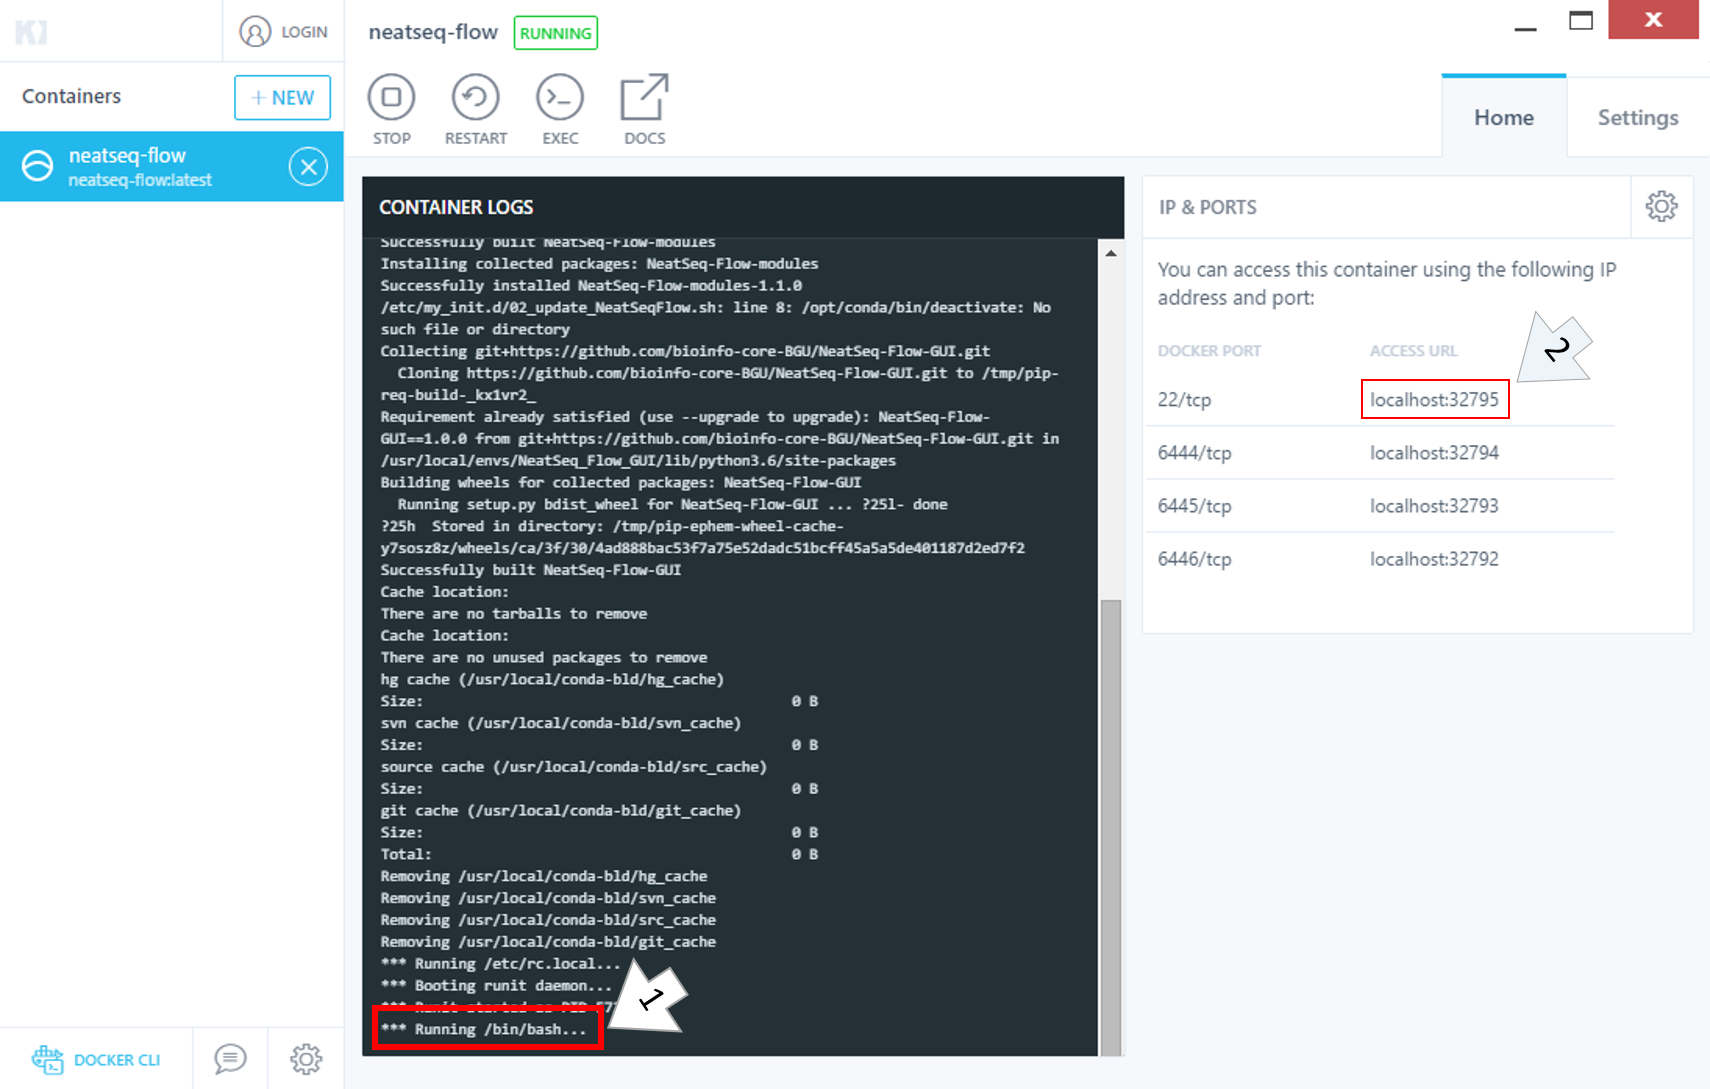
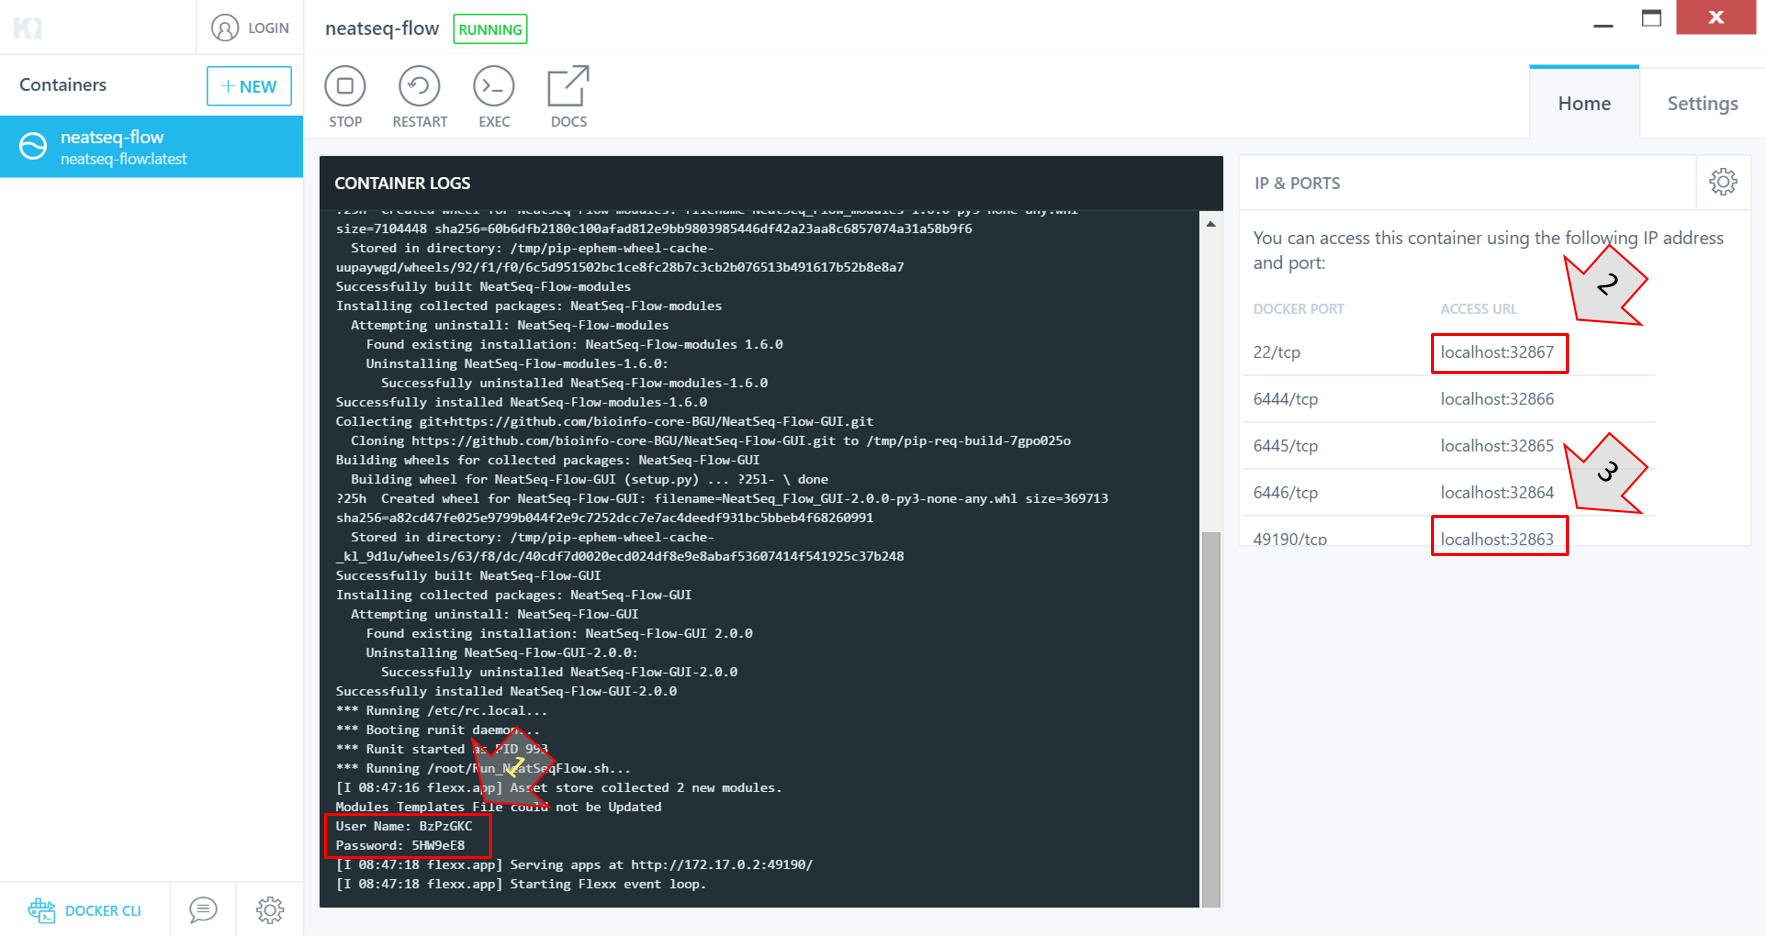
Upaded Docs

diff --git a/README.md b/README.md
@@ -27,35 +27,33 @@ NeatSeq-Flow-Using-Docker
 ## Install on Windows
   **[Read more on Docker for Windows](https://docs.docker.com/docker-for-windows/install/)**
   ### For Windows 10
-  
+
   You Will Need (Download and Install):
-    
-  - [Docker for Windows](https://hub.docker.com/editions/community/docker-ce-desktop-windows). 
+
+  - [Docker for Windows](https://hub.docker.com/editions/community/docker-ce-desktop-windows).
   - [Docker Toolbox](https://docs.docker.com/toolbox/toolbox_install_windows/).
   - [MobaXterm](https://mobaxterm.mobatek.net/download.html)
 
   ### For Older Versions of Windows
-  
+
   You Will Need (Download and Install):
-    
+
   - [Docker Toolbox](https://docs.docker.com/toolbox/toolbox_install_windows/).
   - [MobaXterm](https://mobaxterm.mobatek.net/download.html)
-      
-  ### Get and Run The NeatSeq-Flow Docker Container 
-  
+
+  ### Get and Run The NeatSeq-Flow Docker Container
+
 <img align="left" src="https://raw.githubusercontent.com/bioinfo-core-BGU/NeatSeq-Flow-Using-Docker/master/doc/Kitematic.png" width="50">
-     
+
 Click on the Kitematic Icon
 
 
 ***
-  
+
 <img align="right" src="https://raw.githubusercontent.com/bioinfo-core-BGU/NeatSeq-Flow-Using-Docker/master/doc/Get_Container.png" width="550">
 
   1. In the search bar type 'NeatSeq'
   2. Click on the "CREATE" button.
-  
-&nbsp;
 
 &nbsp;
 
@@ -71,7 +69,9 @@ Click on the Kitematic Icon
 
 &nbsp;
 
-**Note: It Will Take Some Time to Download!!!** 
+&nbsp;
+
+**Note: It Will Take Some Time to Download!!!**
 
 
 <img align="right" src="https://raw.githubusercontent.com/bioinfo-core-BGU/NeatSeq-Flow-Using-Docker/master/doc/Download_Container.png" width="550">
@@ -103,9 +103,10 @@ Click on the Kitematic Icon
 <img align="right" src="https://raw.githubusercontent.com/bioinfo-core-BGU/NeatSeq-Flow-Using-Docker/master/doc/Container_Running.png" width="550">
 
 
-  1. If in the 'CONTAINER LOGS' the line "*** Running /bin/bash" appears, the container is up and running.
-  2. This information [computer_name_or_IP **:** port_number] will be used in the next step.
-  
+  1. If in the 'CONTAINER LOGS' the lines "User Name:" and "Password:" appears, the container has finished to load.
+  2. This information [computer_name_or_IP **:** port_number] will be used in the next step to connect to the container using SSH.
+  3. This information [computer_name_or_IP **:** port_number] will be used in the next step to connect to the NeatSeq-Flow GUI using a web browser.
+
 &nbsp;
 
 &nbsp;
@@ -125,24 +126,26 @@ Click on the Kitematic Icon
 ***
 
   <img align="left" src="https://raw.githubusercontent.com/bioinfo-core-BGU/NeatSeq-Flow-Using-Docker/master/doc/MobaXterm.png" width="50">
-     
+
 Click on the MobaXterm Icon
 
 
 ***
+### Connect to the Docker container using SSH
 
 <img align="right" src="https://raw.githubusercontent.com/bioinfo-core-BGU/NeatSeq-Flow-Using-Docker/master/doc/MobaXterm_Setup.png" width="550">
 
 
   1. Click on the "Session" button.
   2. Click on the "SSH" button.  
-     - Edit the "Remote host" tab to the "computer_name_or_IP" found in the "Kitematic" window.
+     - Edit the "Remote host" tab to the "computer_name_or_IP" found in the "Kitematic" window next to the "22/tcp" DOCKER PORT.
      - Click on the "Specify username" check box.
      - Edit the "Specify username" tab to "sgeadmin".
-     - Edit the "Port" tab to the "port_number" found in the "Kitematic" window.
+     - Edit the "Port" tab to the "port_number" found in the "Kitematic" window next to the "22/tcp" DOCKER PORT.
   3. Click on the "OK" button.
   4. Enter the password "sgeadmin", **Note That You Will Not See a Typing Feedback**
-  
+  5. It is now possible to transfer files to and from the container to be used by NeatSeq-Flow.
+
 &nbsp;
 
 &nbsp;
@@ -153,13 +156,21 @@ Click on the MobaXterm Icon
 **Note: For 'root' user the password is 'root'**
 
 ***
+### Connect to the NeatSeq-Flow GUI using a web browser
+
+<img align="right" src="https://raw.githubusercontent.com/bioinfo-core-BGU/NeatSeq-Flow-Using-Docker/master/doc/NeatSeq_Flow_login.png" width="550">
+
+1. Open a web browser and copy the computer_name_or_IP **:** port_number information found in the "Kitematic" window next to the "49190/tcp" DOCKER PORT.
+2. In the Login page fill in the 'User Name' and 'Password' fields according to the information found at the 'CONTAINER LOGS' in the "Kitematic" window.  
+
+**IMPORTANT: The "port_number", "User Name" and "Password" Changes Every Time You Restart The Container**
 
 ## Install on Mac
 
   You Will Need (Download and Install):
-  - [Docker for Mac](https://hub.docker.com/editions/community/docker-ce-desktop-mac). 
+  - [Docker for Mac](https://hub.docker.com/editions/community/docker-ce-desktop-mac).
   - [Docker Toolbox](https://docs.docker.com/toolbox/overview/)
-  
+
   **[Read more on Docker for Mac](https://docs.docker.com/docker-for-mac/install/)**
 
 **IMPORTANT!!! Getting the NeatSeq-Flow Container on Mac Is Similar To [Windows](#get-and-run-the-neatseq-flow-docker-container), However it was NOT Tested Yet!!!**
@@ -168,15 +179,8 @@ Click on the MobaXterm Icon
 
 ## Running a Test Work-Flow
 
-<img align="right" src="https://raw.githubusercontent.com/bioinfo-core-BGU/NeatSeq-Flow-Using-Docker/master/doc/Commandline.png" width="450">
-
-
 ### In the Terminal Connected to The Container as 'sgeadmin', Type:
 
-
-&nbsp;
-
-&nbsp;
 
 &nbsp;
 
@@ -189,80 +193,78 @@ Click on the MobaXterm Icon
         ```
             wget https://raw.githubusercontent.com/bioinfo-core-BGU/NeatSeq-Flow-Using-Docker/master/doc/Tutorial_Parameter_file.yaml
         ```
-        
+
   3. Download the **Tutorial Work-Flow Sample file**
         ```
            wget https://raw.githubusercontent.com/bioinfo-core-BGU/neatseq-flow-tutorial/master/Samples_conda.nsfs
         ```
-        
-  4. Run **NeatSeq-Flow GUI**:
-        ``` 
-          NeatSeq_Flow_GUI.py
-        ```
-  5.Load a Work-Flow Parameter File
-   
+
+  4. Login to the [NeatSeq-Flow GUI](#connect-to-the-neatseq-flow-gui-using-a-web-browser)
+
+  5. Load a Work-Flow Parameter File
+
    <img src="https://raw.githubusercontent.com/bioinfo-core-BGU/NeatSeq-Flow-Using-Docker/master/doc/Load_WorkFlow_parameter_file.gif" width="650">
-      
+
    - In the 'Work-Flow' Tab click on the 'Load WorkFlow' button, then choose the work-flow's parameter file 'Tutorial_Parameter_file.yaml' and click open.
   6. Run the Work-Flow
    <img src="https://raw.githubusercontent.com/bioinfo-core-BGU/NeatSeq-Flow-Using-Docker/master/doc/Generate_scripts.gif" width="650">
-   
-   
+
+
    **In the 'Run' Tab:**
-   
+
   1. Choose the conda environment of which NeatSeq-Flow installed in:
     - Click on the "Search" button next to the "Conda environment to use" field and wait until at least 2 conda environments are found. If an error occurs try again.
     - Select from the "Conda environment to use" drop-down menu the "NeatSeq_Flow Tutorial" environment.
-   
-   
+
+
    2. Generate the Work-Flow scripts:
-      
+
       - Select the Work-Flow parameter-file.
       - Select the Sample file.
       - Choose the Project Directory to generate the Work-Flow scripts in (the default is to use the Current Working Directory )
       - Click on the 'Generate scripts' button.
 
    3. To run the Work-Flow click on the 'Run scripts' button
-   
+
    <img src="https://raw.githubusercontent.com/bioinfo-core-BGU/NeatSeq-Flow-Using-Docker/master/doc/Run_scripts.gif" width="650">  
-   
+
    4. It is possible to monitor the Work-Flow progress by clicking the 'Run Monitor' button
    <img src="https://raw.githubusercontent.com/bioinfo-core-BGU/NeatSeq-Flow-Using-Docker/master/doc/Run_Monitor.gif" width="650">
-   
-   
-   
+
+
+
 ### For more information about **"NeatSeq-Flow"** see the full documentation on **[Read The Docs](http://neatseq-flow.readthedocs.io/en/latest/)**
-   
+
 ## Setting The Cluster Parameters
 
   **Make Sure That the Cluster Settings are as Follows:**
-  
+
   <img src="https://raw.githubusercontent.com/bioinfo-core-BGU/NeatSeq-Flow-Using-Docker/master/doc/Cluster_settings.gif" width="650">
-  
+
   - In The 'Cluster' Tab:
     1. Change the 'Executor' 'Value' to SGE
     2. Change the 'Qsub_path' 'Value' to /opt/sge/bin/lx-amd64/
     3. Change the 'Qsub_q' 'Value' to all.q
 
 ## Setting The Available CPUs and Memory For The Container
-   
+
    <img src="https://raw.githubusercontent.com/bioinfo-core-BGU/NeatSeq-Flow-Using-Docker/master/doc/CPU_and_Memory_settings.png" width="650">
-   
+
    Click the whale icon in the status bar and choose 'settings'
    - Click on advanced tab on the left.
    - Change the number of cpus and the amount of memory you want to be available to the container.
    - Click on the 'Apply' button
-   
+
   **IMPORTANT!! Restart the Container for the changes to take place**
-  
+
   To see how many CPUs and Memory available to the container, Type in the command-line:
-  
+
   ```
     ###### CPU info:######
     lscpu
     ###### Memory info:######
     free -m
-    
+
   ```
 
 
